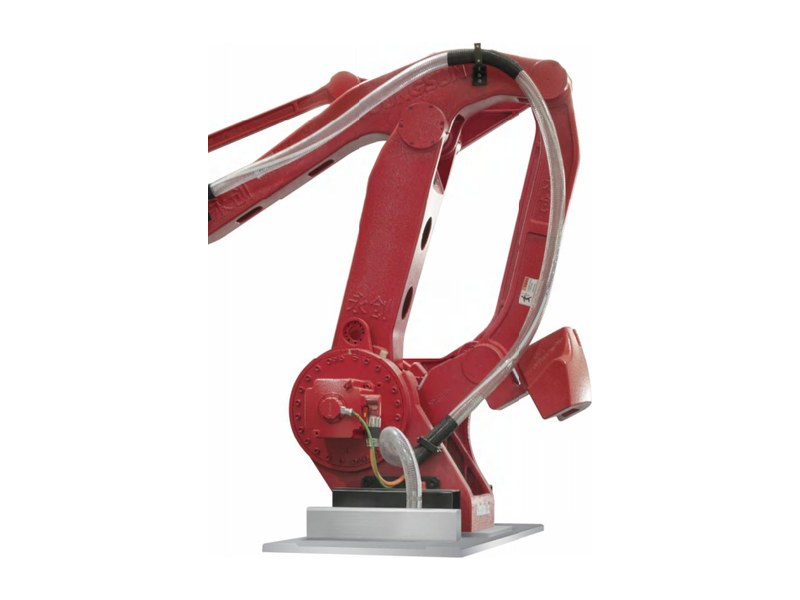
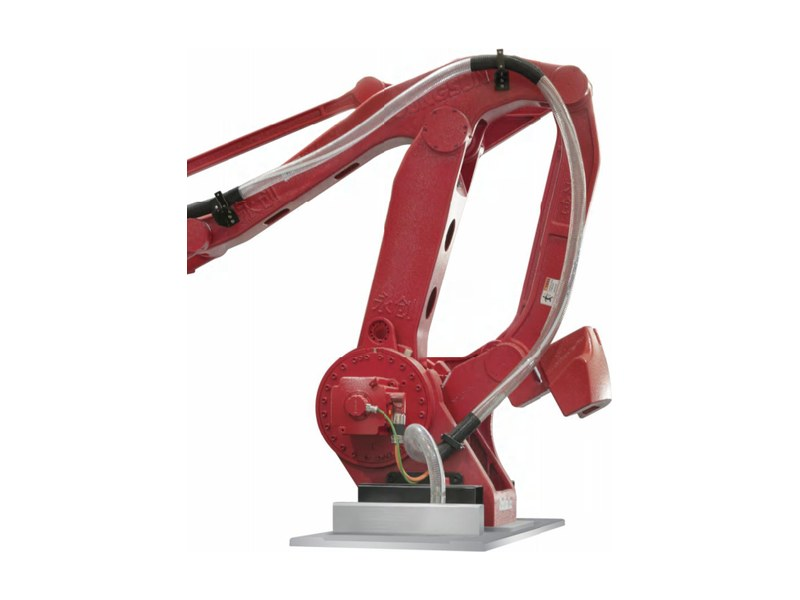
YOUNGSUN: добавлены вакуум, флоупак, укладчики в короба + фикс фото
- Каталог дополнен до полного состава из 17 категорий (добавлены вакуумная упаковка, горизонтальная флоупак, укладчики в короба) с карточками и описаниями
- Перекадрированы термоусадка, паллетоупаковщик и робот — машины показаны целиком, без обрезки

Changed region(s): [[0.2188, 0.06, 0.7812, 0.93]]

diff --git a/youngsun.html b/youngsun.html
@@ -111,6 +111,22 @@
         </div>
         <div class="product-card">
           <div class="product-card-image">
+            <img src="images/youngsun-16.jpg" alt="Горизонтальные упаковочные машины (флоупак)">
+          </div>
+          <h3 class="product-card-title">Горизонтальная упаковка (флоупак)</h3>
+          <p class="product-card-descr">Упаковка штучной продукции в плёнку «флоупак» на высокоскоростных горизонтальных машинах</p>
+          <a href="#" class="btn-small product-more" data-id="16">Подробнее</a>
+        </div>
+        <div class="product-card">
+          <div class="product-card-image">
+            <img src="images/youngsun-15.jpg" alt="Вакуумные упаковочные машины">
+          </div>
+          <h3 class="product-card-title">Вакуумная упаковка</h3>
+          <p class="product-card-descr">Вакуумная и газомодифицированная (MAP) упаковка для увеличения срока хранения продуктов</p>
+          <a href="#" class="btn-small product-more" data-id="15">Подробнее</a>
+        </div>
+        <div class="product-card">
+          <div class="product-card-image">
             <img src="images/youngsun-04.jpg" alt="Блистерные упаковочные машины">
           </div>
           <h3 class="product-card-title">Блистерная упаковка</h3>
@@ -160,6 +176,14 @@
           <h3 class="product-card-title">Формирователи коробов</h3>
           <p class="product-card-descr">Автоматическое раскрытие и формирование картонных коробов (carton erector)</p>
           <a href="#" class="btn-small product-more" data-id="08">Подробнее</a>
+        </div>
+        <div class="product-card">
+          <div class="product-card-image">
+            <img src="images/youngsun-17.jpg" alt="Укладчики продукции в короба (carton packer)">
+          </div>
+          <h3 class="product-card-title">Укладчики в короба</h3>
+          <p class="product-card-descr">Автоматическая укладка продукции в короба (carton packer), в том числе роботизированные линии</p>
+          <a href="#" class="btn-small product-more" data-id="17">Подробнее</a>
         </div>
         <div class="product-card">
           <div class="product-card-image">

diff --git a/youngsun.js b/youngsun.js
@@ -88,6 +88,24 @@
       img: 'images/youngsun-14.jpg',
       desc: 'Роботизированные паллетайзеры и депаллетайзеры с сервоформированием рядов. Автоматическая укладка коробов, мешков и плёночных упаковок на паллеты и их разборка в конце линии.',
       specs: ['Роботизированная укладка на паллеты', 'Сервоформирование рядов', 'Короба, мешки, плёночные упаковки', 'Производительность линий — до 50 000 бут/ч']
+    },
+    '15': {
+      title: 'Вакуумная упаковка',
+      img: 'images/youngsun-15.jpg',
+      desc: 'Вакуумные и газомодифицированные (MAP) упаковочные машины: настольные и напольные вакуумные камеры, одно- и двухкамерные модели, а также термоформовочные линии непрерывного действия. Продлевают срок хранения мясных, рыбных и молочных продуктов.',
+      specs: ['Настольные и напольные камеры', 'Одно- и двухкамерные модели', 'Вакуум и газовая среда (MAP)', 'Термоформовочные линии непрерывного действия']
+    },
+    '16': {
+      title: 'Горизонтальная упаковка (флоупак)',
+      img: 'images/youngsun-16.jpg',
+      desc: 'Горизонтальные упаковочные машины (флоупак) для упаковки штучной продукции — печенья, шоколада, хлебобулочных изделий, замороженных полуфабрикатов — в трёхшовный пакет из плёнки. Исполнение с нижней или верхней подачей продукта.',
+      specs: ['Трёхшовный пакет из плёнки', 'Нижняя и верхняя подача продукта', 'Производительность до 150 упаковок/мин', 'Питание: 380 В, 6–10,5 кВт']
+    },
+    '17': {
+      title: 'Укладчики в короба',
+      img: 'images/youngsun-17.jpg',
+      desc: 'Машины для автоматической укладки продукции в транспортные короба (carton packer): с горизонтальной подачей, полностью автоматические линии, а также роботизированные и на дельта-роботах. Группируют упаковки и укладывают их в короб по заданной схеме.',
+      specs: ['Горизонтальные, роботизированные и дельта-роботы', 'Группировка и укладка в короб', 'Гибкая настройка схемы укладки', 'Питание: 380 В, 3–16 кВт']
     }
   };
 